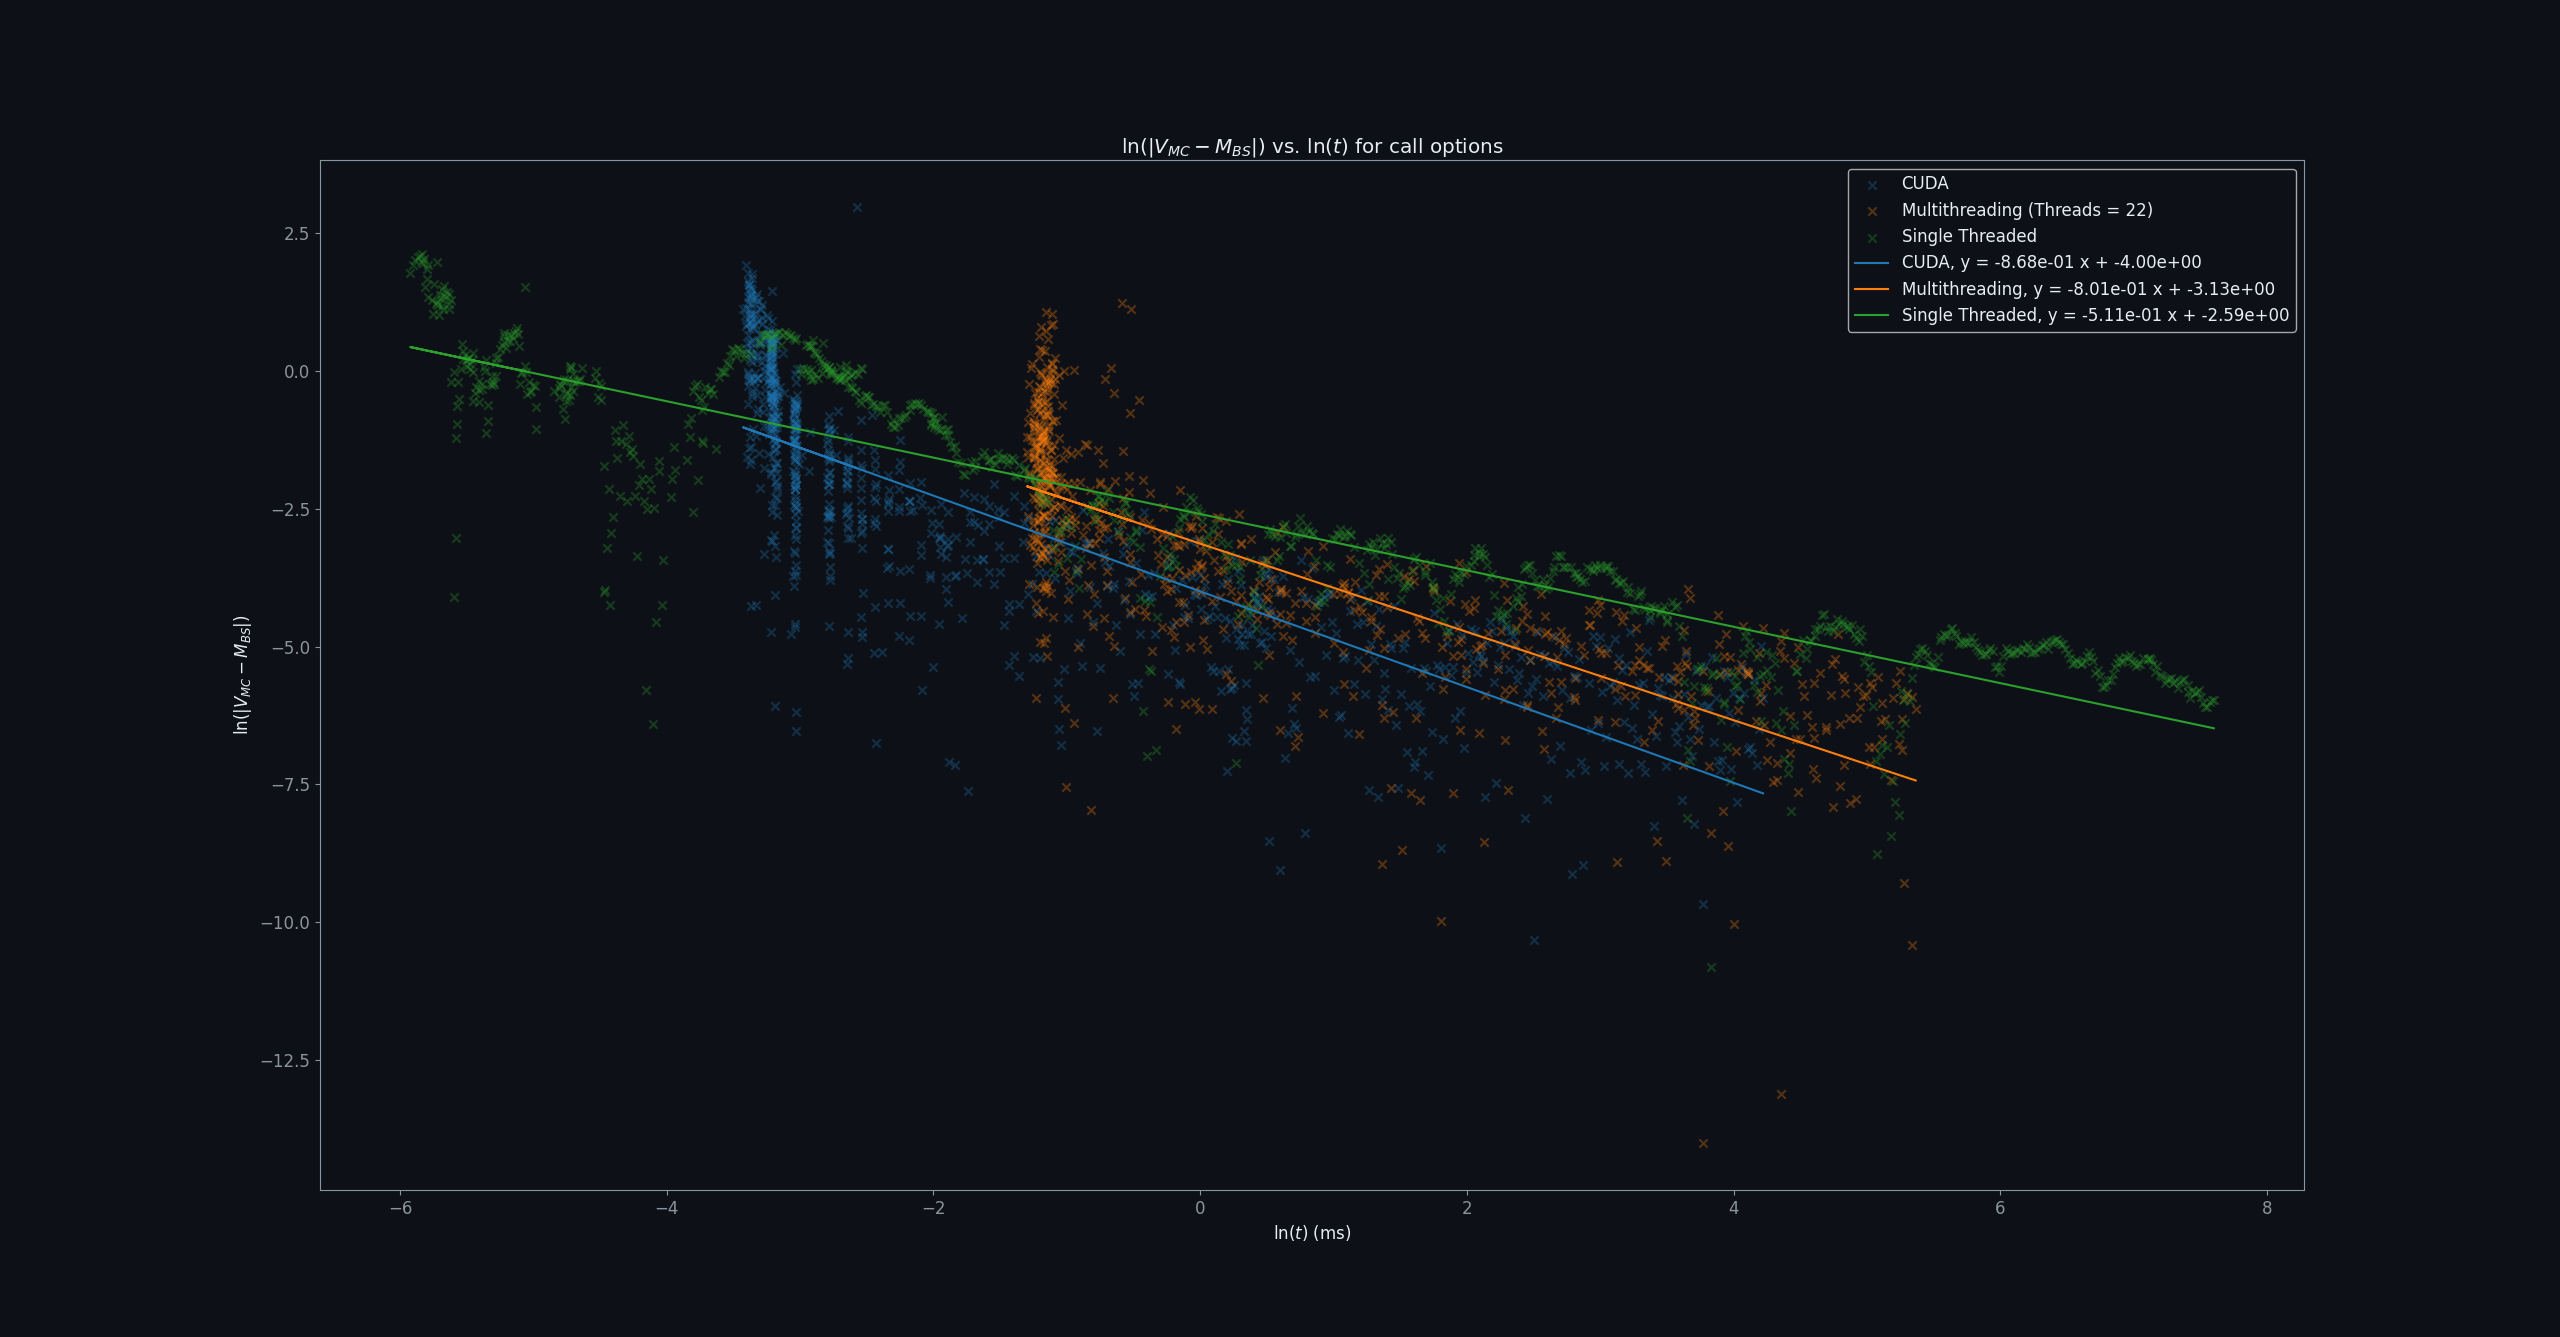
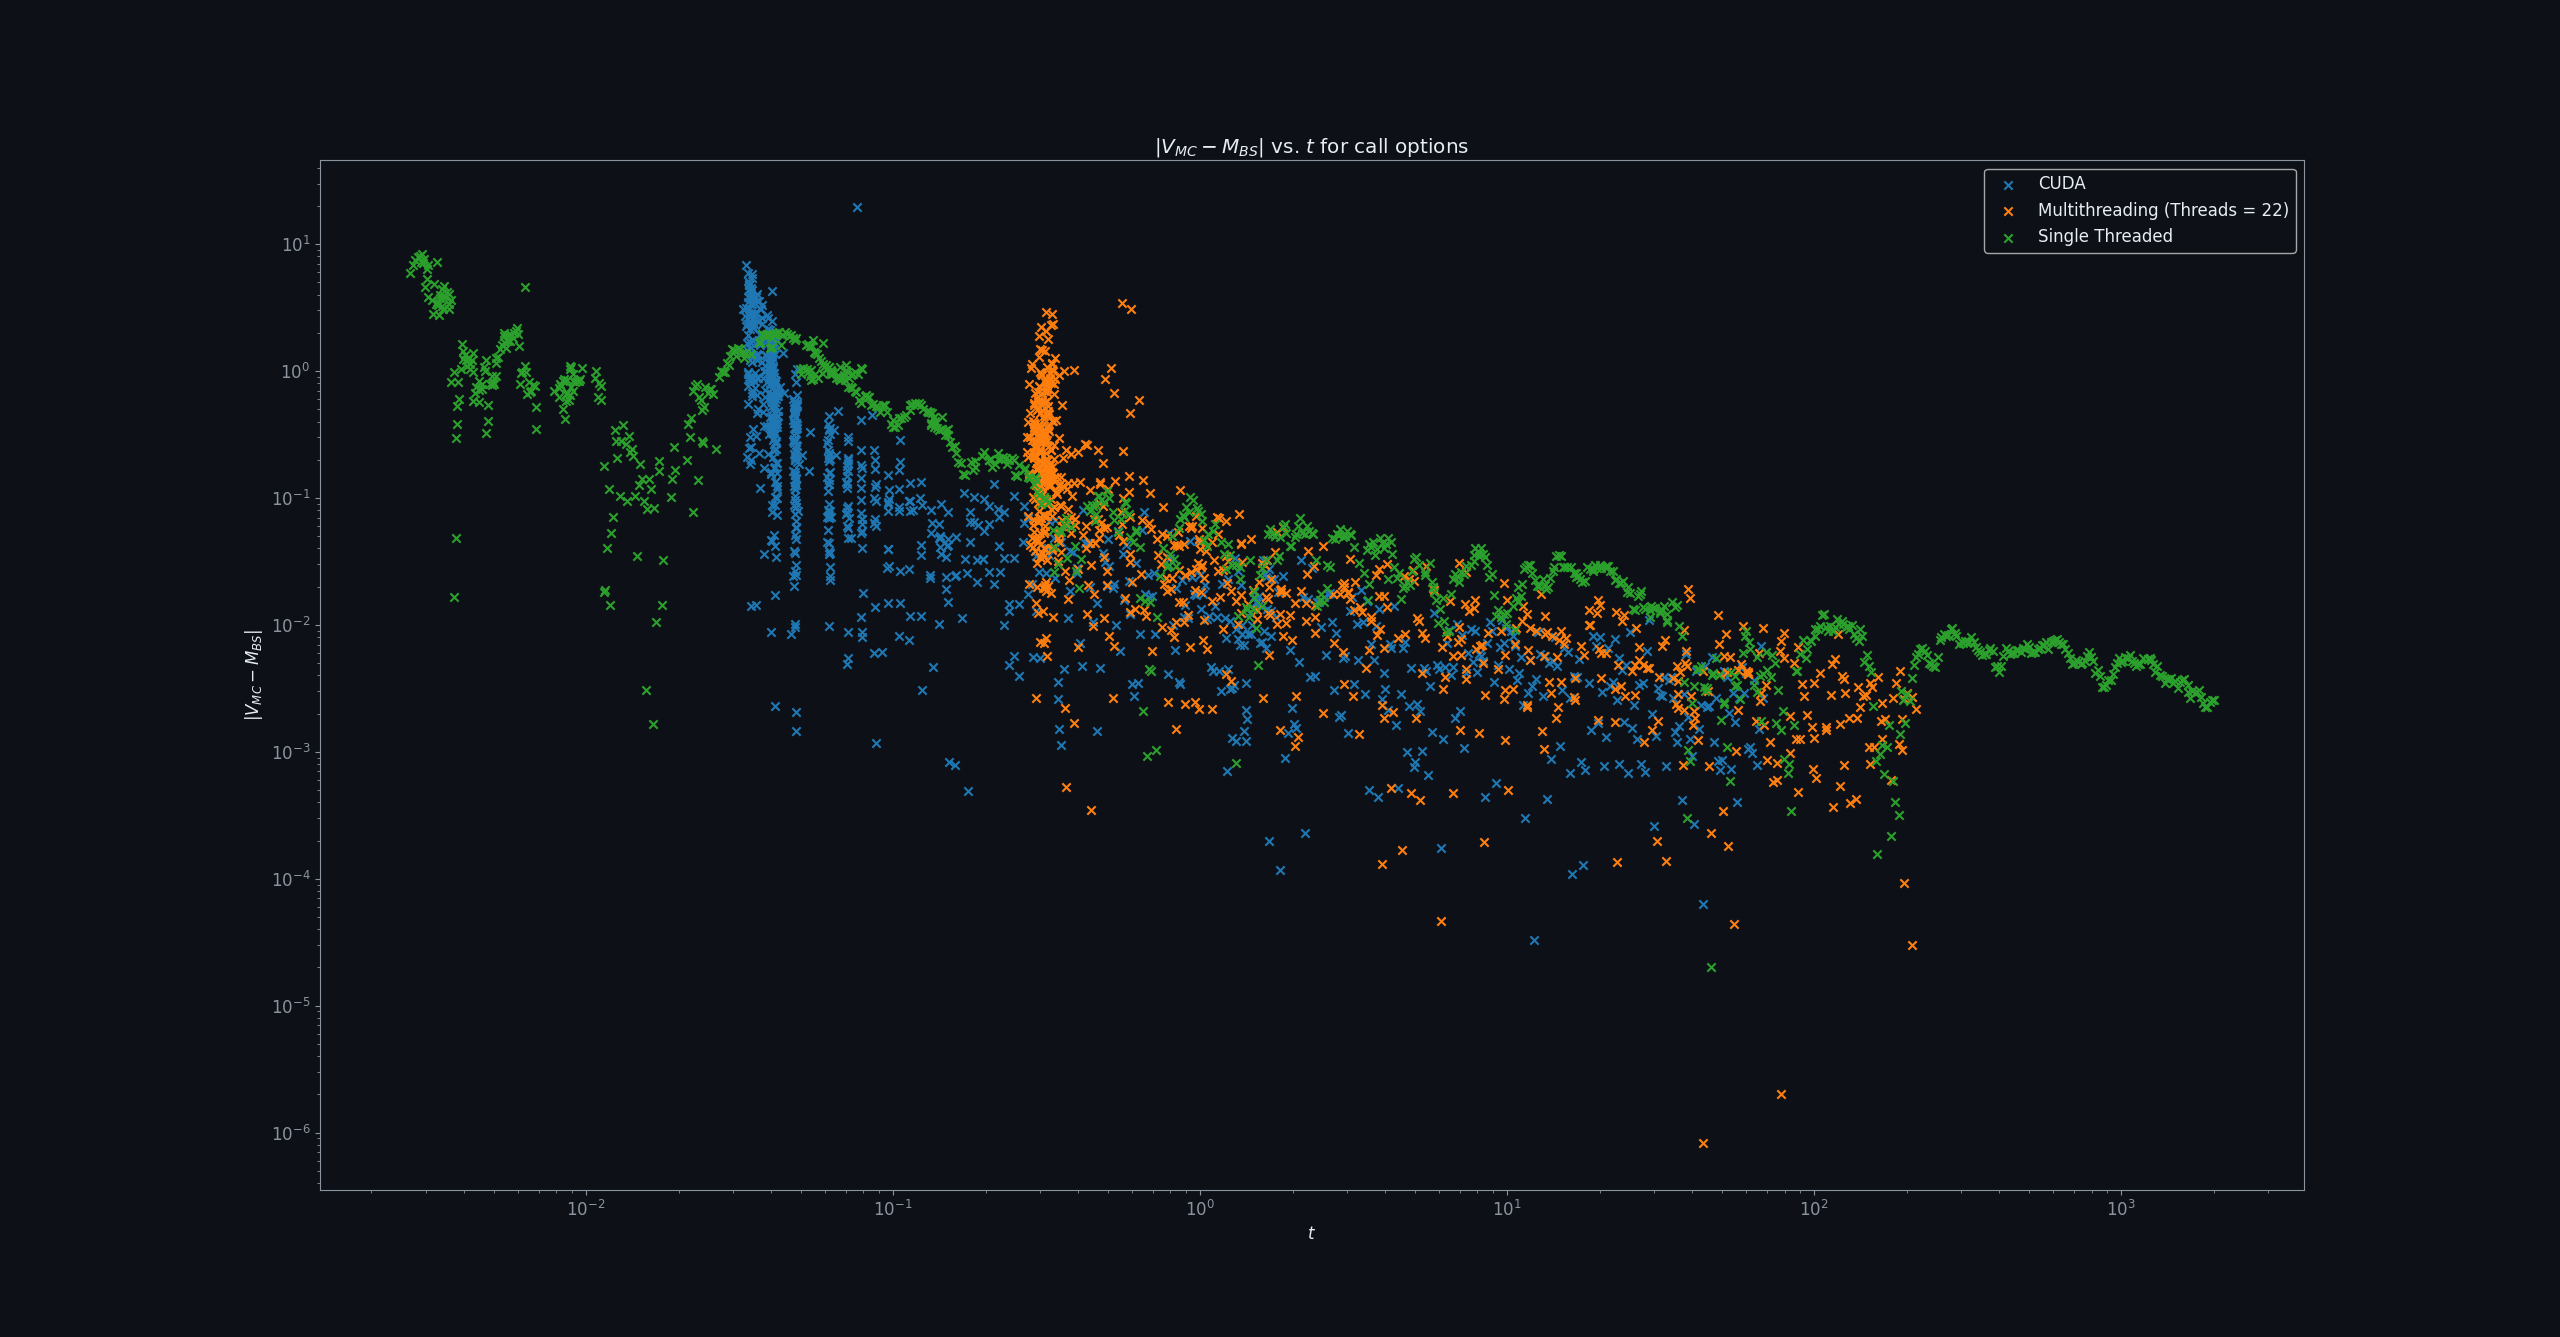
added the two remaining images

diff --git a/vis/convergence_runtime_calls.py b/vis/convergence_runtime_calls.py
@@ -51,6 +51,8 @@ plt.yscale("log")
 
 plt.xlabel(r"$t$")
 plt.ylabel(r"$|V_{MC} - M_{BS}|$")
+plt.title(r"$|V_{MC} - M_{BS}|$ vs. $t$ for call options")
+
 plt.legend()
 
 plt.show()

diff --git a/vis/convergence_runtime_puts.py b/vis/convergence_runtime_puts.py
@@ -51,6 +51,7 @@ plt.yscale("log")
 
 plt.xlabel(r"$t$")
 plt.ylabel(r"$|V_{MC} - M_{BS}|$")
+plt.title(r"$|V_{MC} - M_{BS}|$ vs. $t$ for put options")
 plt.legend()
 
 plt.show()
